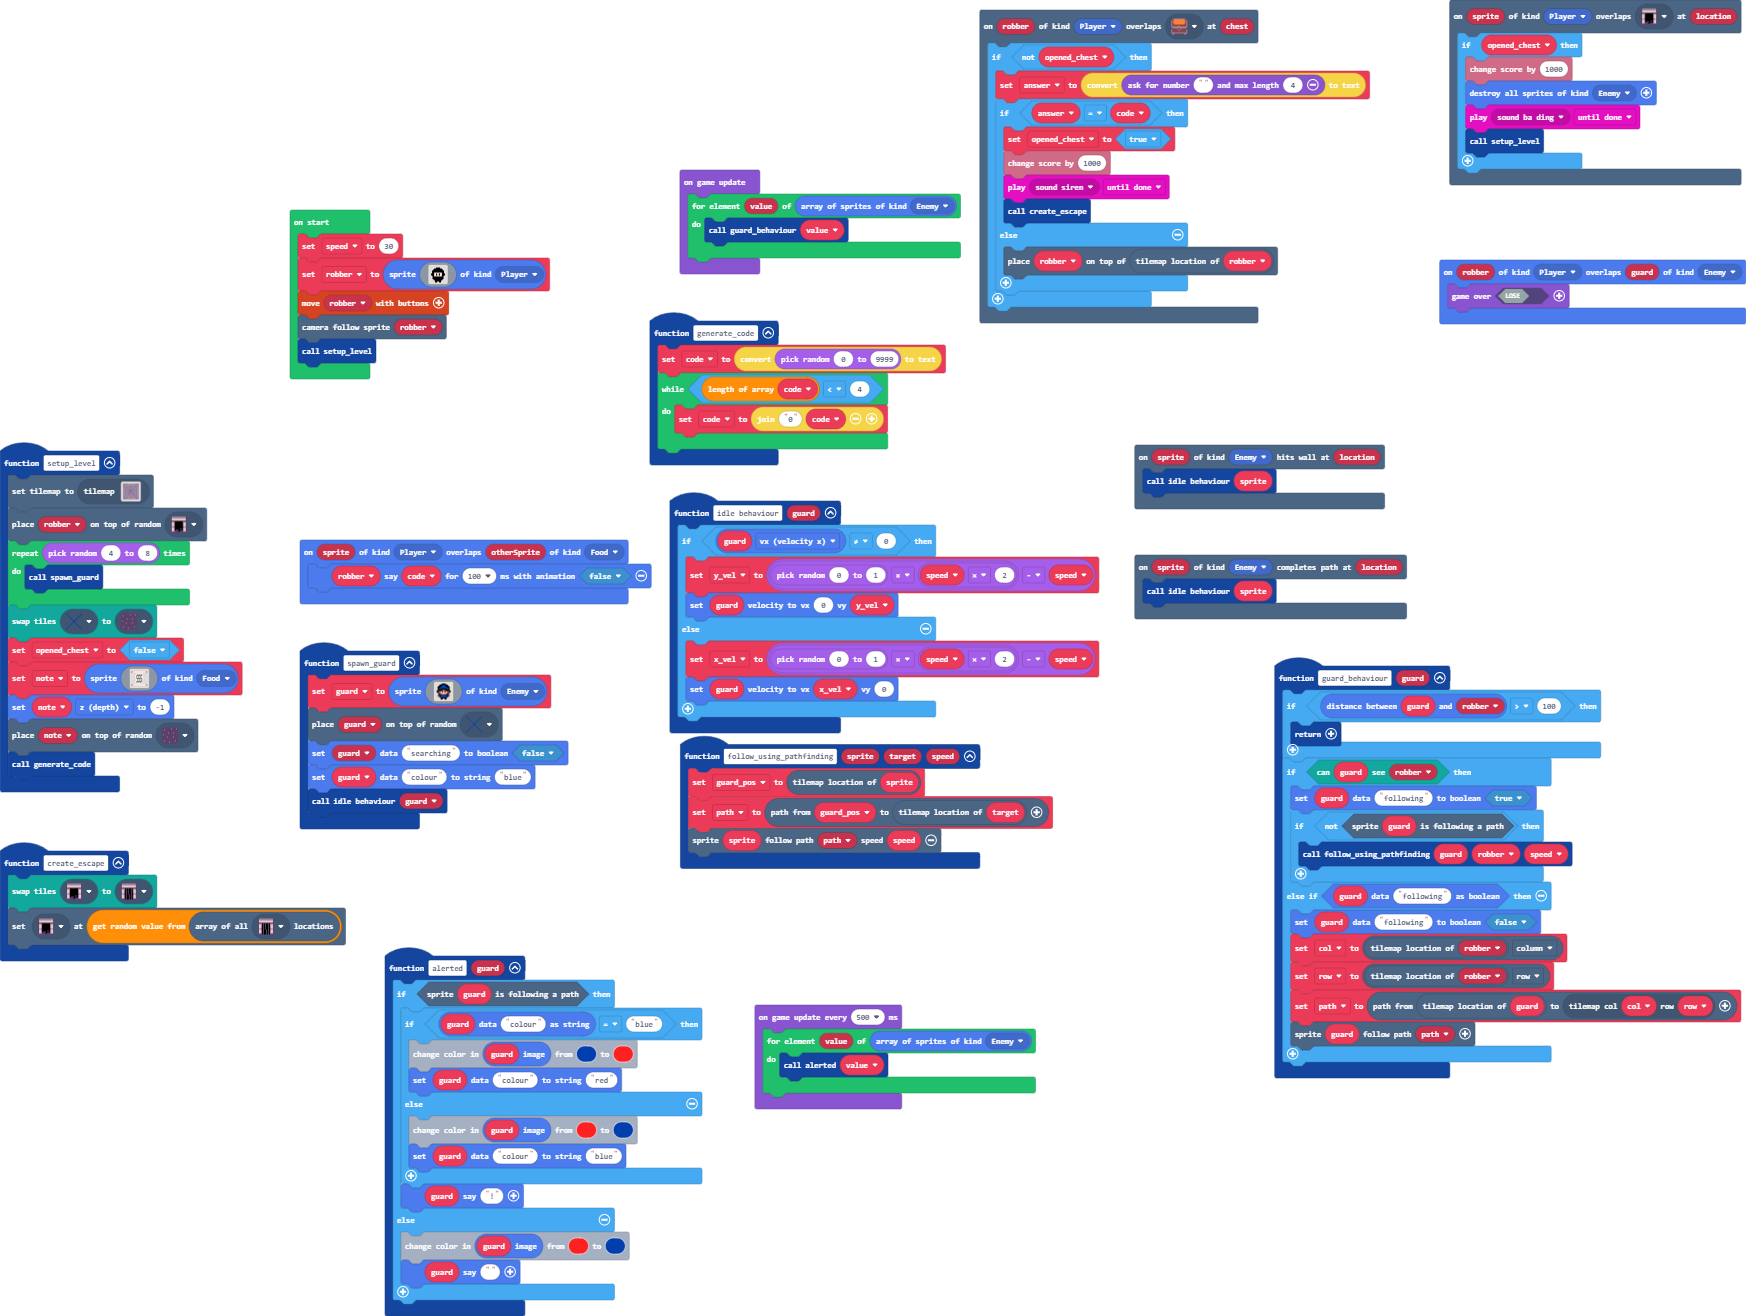
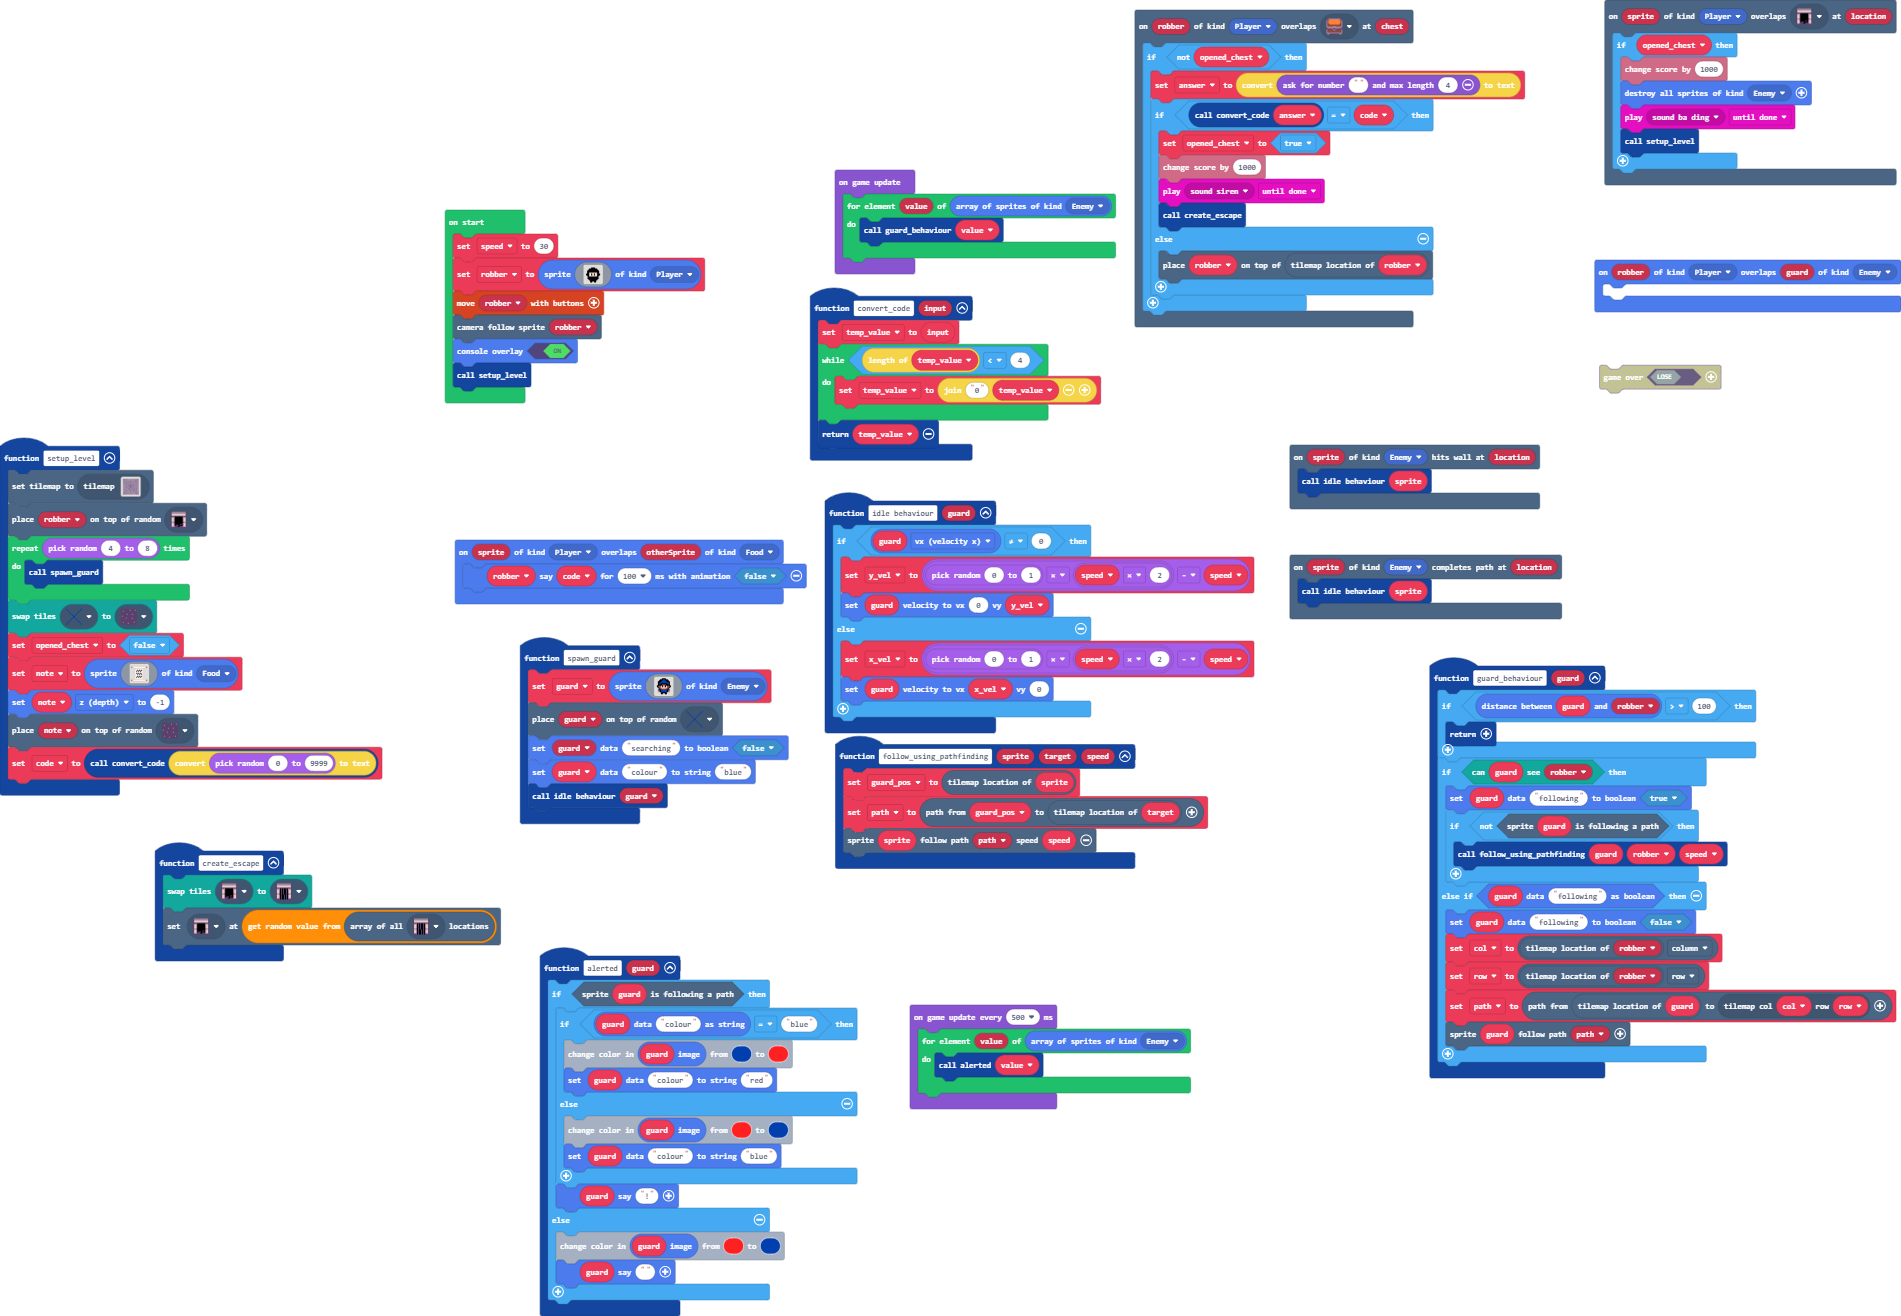
fixed code conversion issue

Changed region(s): [[0.0, 0.0, 1.0, 1.0], [0.7113, 0.4985, 1.0, 0.8412], [0.8041, 0.1869, 1.0, 0.3116]]

diff --git a/main.ts b/main.ts
@@ -29,6 +29,13 @@ function alerted (guard: Sprite) {
         guard.sayText("")
     }
 }
+function convert_code (input2: string) {
+    temp_value = input2
+    while (temp_value.length < 4) {
+        temp_value = "0" + temp_value
+    }
+    return temp_value
+}
 function follow_using_pathfinding (sprite: Sprite, target: Sprite, speed: number) {
     guard_pos = sprite.tilemapLocation()
     path = scene.aStar(guard_pos, target.tilemapLocation())
@@ -63,10 +70,10 @@ function setup_level () {
     note = sprites.create(assets.image`note`, SpriteKind.Food)
     note.z = -1
     tiles.placeOnRandomTile(note, assets.tile`floor`)
-    generate_code()
+    code = convert_code(convertToText(randint(0, 9999)))
 }
 sprites.onOverlap(SpriteKind.Player, SpriteKind.Enemy, function (robber, guard) {
-    game.over(false)
+	
 })
 sprites.onOverlap(SpriteKind.Player, SpriteKind.Food, function (sprite, otherSprite) {
     robber.sayText(code, 100, false)
@@ -74,7 +81,7 @@ sprites.onOverlap(SpriteKind.Player, SpriteKind.Food, function (sprite, otherSpr
 scene.onOverlapTile(SpriteKind.Player, assets.tile`chest`, function (robber, chest) {
     if (!(opened_chest)) {
         answer = convertToText(game.askForNumber("", 4))
-        if (answer == code) {
+        if (convert_code(answer) == code) {
             opened_chest = true
             info.changeScoreBy(1000)
             music.play(music.melodyPlayable(music.siren), music.PlaybackMode.UntilDone)
@@ -101,12 +108,6 @@ function guard_behaviour (guard: Sprite) {
         scene.followPath(guard, path)
     }
 }
-function generate_code () {
-    code = convertToText(randint(0, 9999))
-    while (code.length < 4) {
-        code = "0" + code
-    }
-}
 let row = 0
 let col = 0
 let answer = ""
@@ -116,6 +117,7 @@ let guard: Sprite = null
 let opened_chest = false
 let path: tiles.Location[] = []
 let guard_pos: tiles.Location = null
+let temp_value = ""
 let x_vel = 0
 let y_vel = 0
 let robber: Sprite = null
@@ -124,6 +126,7 @@ speed = 30
 robber = sprites.create(assets.image`robber`, SpriteKind.Player)
 controller.moveSprite(robber)
 scene.cameraFollowSprite(robber)
+spriteutils.setConsoleOverlay(true)
 setup_level()
 game.onUpdate(function () {
     for (let value of sprites.allOfKind(SpriteKind.Enemy)) {
